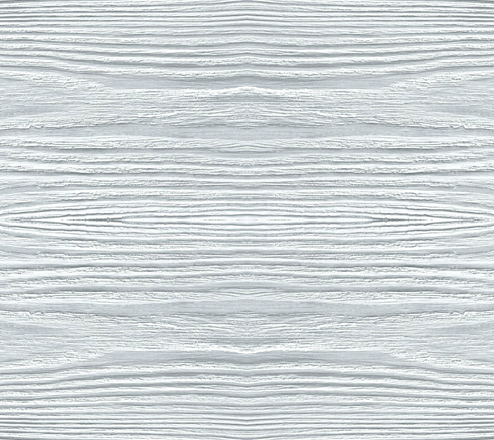
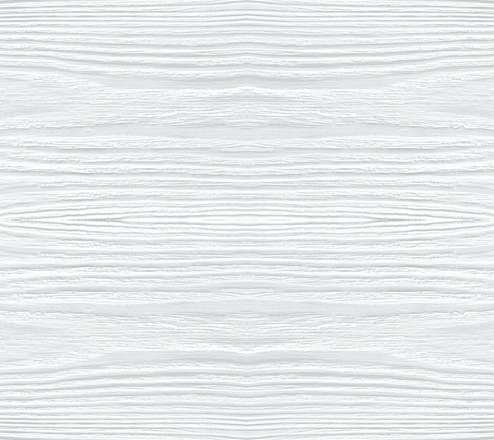
poprawiono szczegóły dotyczące tła

diff --git a/styles/css/style.css b/styles/css/style.css
@@ -1,4 +1,4 @@
-#load{width:100%;height:100%;position:fixed;z-index:9999;background:url("https://www.creditmutuel.fr/cmne/fr/banques/webservices/nswr/images/loading.gif") no-repeat center center rgba(0,0,0,0.25)}*{padding:0;margin:0}footer{padding:2px;margin-top:0;color:#fff;background-color:#000;padding:0 15%}footer #info{text-align:left}footer #info a{white-space:nowrap}footer #media{float:right}footer a{white-space:nowrap}body{font:15px/1.5 Arial, Helvetica, sans-serif;padding:0;margin:0}.main-parts{width:70%;margin:auto;overflow:hidden}ul{margin:0;padding:0}header{border-bottom:2px solid black;color:#000;padding-top:5px;padding-bottom:2px;min-height:50px;text-transform:uppercase;position:relative;z-index:1}header #bg{background-image:url("../../images/bg-menu.png");opacity:0.7;position:absolute;top:0;bottom:0;left:0;right:0;width:100%;height:100%;z-index:-1}header a{color:#000;text-decoration:none;text-transform:uppercase;font-size:16px;font-weight:bold}header a:hover{color:#ccc;font-weight:bold}header li{display:inline;padding:0 20px}header #branding{float:left;font-size:70%}header #branding h1 #logo{width:35%;vertical-align:middle}header nav{float:right;margin-top:10px}header #top-menu{color:#000;font-weight:bold}header .current a{color:#000;font-weight:bold;text-decoration:underline}#showcase{min-height:400px;text-align:left;color:#fff;background-image:url("../../images/backgrounds/bg.png");background-repeat:no-repeat;background-attachment:fixed;padding-bottom:10px;padding-top:100px}#showcase h1{font-size:55px;text-shadow:4px 4px #000;background-color:rgba(0,0,0,0.7);display:table;border-radius:50px;padding:0px 10px 0px 10px}#showcase p{font-size:20px;margin-left:5%;text-shadow:2px 2px #000;background-color:rgba(0,0,0,0.7);border-radius:50px;display:table;padding:0px 10px 0px 10px}#showcase #read-more{fill:#000;stroke-width:5;opacity:0.6}#boxes{padding-top:50px;background-color:#fff;padding-bottom:100px}#boxes h3{text-transform:uppercase;font-weight:normal}#boxes a{text-decoration:underline}#boxes .box{float:left;text-align:center;width:30%;padding:10px}#boxes .box img{width:90px}#box1{animation:move-right 1s linear;fill:#dd9ebd}#box2{animation:move-right 1s linear;fill:#a0c695}#box3{animation:move-left 1s linear;fill:#7be0f2}a{color:inherit;text-decoration:none}a:visited{color:inherit;text-decoration:none}.tab{display:inline-block;margin-left:3%}@media screen and (max-width: 768px){.main-parts{width:98%;margin:2%}header{padding-bottom:20px}header #branding{float:none;text-align:center;width:97%}header nav{float:none;text-align:center;width:97%}header nav li{float:none;text-align:center;width:97%}#boxes .box{float:none;text-align:center;width:97%}#showcase h1{margin-top:40px}}@keyframes move-left{0%{transform:translateX(350%)}100%{transform:translateX(0%)}}@keyframes move-right{0%{transform:translateX(-350%)}100%{transform:translateX(0%)}}#menu a:active{background-color:#fff;text-decoration:overline #000;color:#000}canvas#copy{width:18%;position:absolute;right:10%;bottom:-3%;z-index:-1;transform:scale(-1, 1)}svg text{font-family:FontAwesome}
+#load{width:100%;height:100%;position:fixed;z-index:9999;background:url("../../images/loader.gif") no-repeat center center #fff;background-size:5%}*{padding:0;margin:0}footer{padding:2px;margin-top:0;color:#fff;background-color:#000;padding:0 15%}footer #info{text-align:left}footer #info a{white-space:nowrap}footer #media{float:right}footer a{white-space:nowrap}body{font:15px/1.5 Arial, Helvetica, sans-serif;padding:0;margin:0}.main-parts{width:70%;margin:auto;overflow:hidden}ul{margin:0;padding:0}header{border-bottom:2px solid black;color:#000;padding-top:5px;padding-bottom:2px;min-height:50px;text-transform:uppercase;position:relative;z-index:1}header #bg{background-image:url("../../images/bg-menu.png");opacity:0.7;position:absolute;top:0;bottom:0;left:0;right:0;width:100%;height:100%;z-index:-1}header a{color:#000;text-decoration:none;text-transform:uppercase;font-size:16px;font-weight:bold}header a:hover{color:#1b1a1a;font-weight:bold;text-shadow:1px 1px grey}header li{display:inline;padding:0 20px}header #branding{float:left;font-size:70%}header #branding h1 #logo{width:35%;vertical-align:middle}header nav{float:right;margin-top:10px}header #top-menu{color:#000;font-weight:bold}header .current a{color:#000;font-weight:bold;text-decoration:underline}#showcase{min-height:400px;text-align:left;color:#fff;background-image:url("../../images/backgrounds/bg.png");background-repeat:no-repeat;background-attachment:fixed;padding-top:100px}#showcase h1{font-size:55px;text-shadow:4px 4px #000;background-color:rgba(0,0,0,0.7);display:table;border-radius:50px;padding:0px 15px 0px 15px}#showcase p{font-size:20px;margin-left:5%;text-shadow:2px 2px #000;background-color:rgba(0,0,0,0.7);border-radius:50px;display:table;padding:0px 10px 0px 10px}#boxes{padding-top:50px;background-image:url("../../images/bg-menu.png");padding-bottom:50px}#boxes h3{text-transform:uppercase;font-weight:normal}#boxes a{text-decoration:underline}#boxes .box{float:left;text-align:center;width:30%;padding:10px}#boxes .box img{width:90px}#box1{animation:move-right 1s linear;fill:#dd9ebd}#box2{animation:move-right 1s linear;fill:#a0c695}#box3{animation:move-left 1s linear;fill:#7be0f2}a{color:inherit;text-decoration:none}a:visited{color:inherit;text-decoration:none}.tab{display:inline-block;margin-left:3%}@media screen and (max-width: 768px){.main-parts{width:98%;margin:2%}header{padding-bottom:20px}header #branding{float:none;text-align:center;width:97%}header nav{float:none;text-align:center;width:97%}header nav li{float:none;text-align:center;width:97%}#boxes .box{float:none;text-align:center;width:97%}#showcase h1{margin-top:40px}}@keyframes move-left{0%{transform:translateX(350%)}100%{transform:translateX(0%)}}@keyframes move-right{0%{transform:translateX(-350%)}100%{transform:translateX(0%)}}#menu a:active{background-color:#fff;text-decoration:overline #000;color:#000}canvas#copy{width:18%;position:absolute;right:10%;bottom:-3%;z-index:-1;transform:scale(-1, 1)}svg text{font-family:FontAwesome}
  
 
  /*# sourceMappingURL= style.css.map */

diff --git a/styles/scss/style.scss b/styles/scss/style.scss
@@ -7,7 +7,8 @@
     height: 100%;
     position: fixed;
     z-index: 9999;
-    background: url("https://www.creditmutuel.fr/cmne/fr/banques/webservices/nswr/images/loading.gif") no-repeat center center rgba(0, 0, 0, 0.25)
+    background: url("../../images/loader.gif") no-repeat center center $white;
+    background-size: 5%;
 }
 
 * {
@@ -82,6 +83,7 @@ header {
         &:hover {
             color: $menu-active-color;
             font-weight: bold;
+            text-shadow: 1px 1px grey;
         }
     }
     li {
@@ -118,7 +120,6 @@ header {
     background-image: $background-image;
     background-repeat: no-repeat;
     background-attachment: fixed;
-    padding-bottom: 10px;
     padding-top: 100px;
     h1 {
         font-size: 55px;
@@ -126,7 +127,7 @@ header {
         background-color: rgba(0, 0, 0, 0.7);
         display: table;
         border-radius: 50px;
-        padding: 0px 10px 0px 10px;
+        padding: 0px 15px 0px 15px;
     }
     p {
         font-size: 20px;
@@ -137,17 +138,12 @@ header {
         display: table;
         padding: 0px 10px 0px 10px;
     }
-    #read-more {
-        fill: $text-header-color;
-        stroke-width: 5;
-        opacity: 0.6;
-    }
 }
 
 #boxes {
     padding-top: 50px;
-    background-color: $white;
-    padding-bottom: 100px;
+    background-image: $menu-background-image;
+    padding-bottom: 50px;
     h3 {
         text-transform: uppercase;
         font-weight: normal;

diff --git a/index.html b/index.html
@@ -90,12 +90,6 @@
                 <h1>Salon meblowy Kita</h1>
                 <br>
                 <p>Tworzenie mebli to nasza pasja</p>
-                <a href="#readmore">
-                    <svg width="160" height="90">
-                        <rect id="read-more" x="4" y="30" rx="30" ry="20" width="150" height="50"> Twoja przeglądarka niestety nie obsługuje SVG
-                            <text x="34" y="60" font-size="13" fill="white">Więcej...</text>
-                    </svg>
-                </a>
             </div>
 
         </section>
@@ -122,7 +116,7 @@
                     <h3>Zadowolenie klientów</h3>
                     <p>Nasi klienci są po wykonanej pracy zawsze są zadowoleni. Przeczytaj opinie:</p>
                     <br>
-                    <a href="#clean-code">Opinie</a>
+                    <a href="#clean-code">Więcej...</a>
                 </div>
 
                 <div class="box" id="box3">
@@ -133,7 +127,7 @@
                     <h3>Daleki zasięg</h3>
                     <p>Wykonujemy nasze projkety na terenie całej Polski</p>
                     <br>
-                    <a href="#clean-code">Dowiedz się wiecej</a>
+                    <a href="#clean-code">Więcej...</a>
                 </div>
 
             </div>

diff --git a/styles/scss/_variables.scss b/styles/scss/_variables.scss
@@ -2,7 +2,7 @@
 $white: #fff;
 $black: #000;
 $text-header-color: black;
-$menu-active-color: #ccc;
+$menu-active-color: rgb(27, 26, 26);
 $box1-color: #dd9ebd;
 $box2-color: #a0c695;
 $box3-color: #7be0f2;
